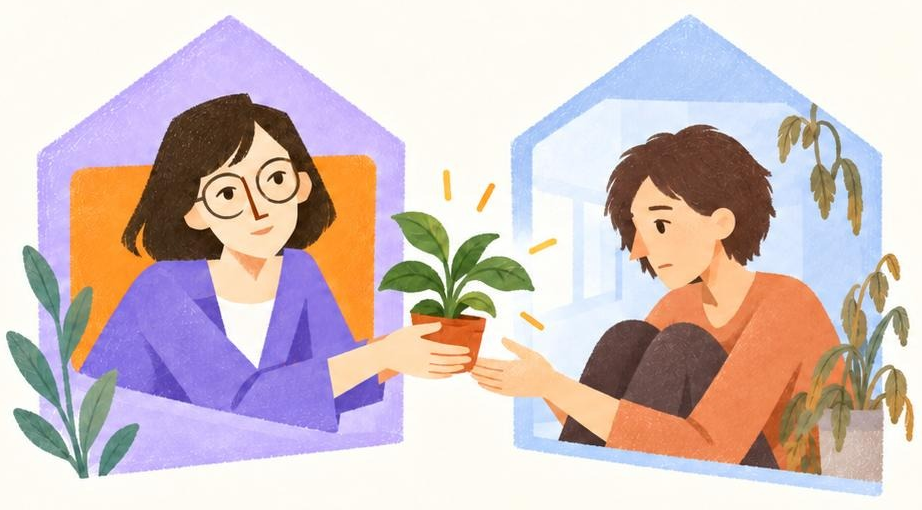
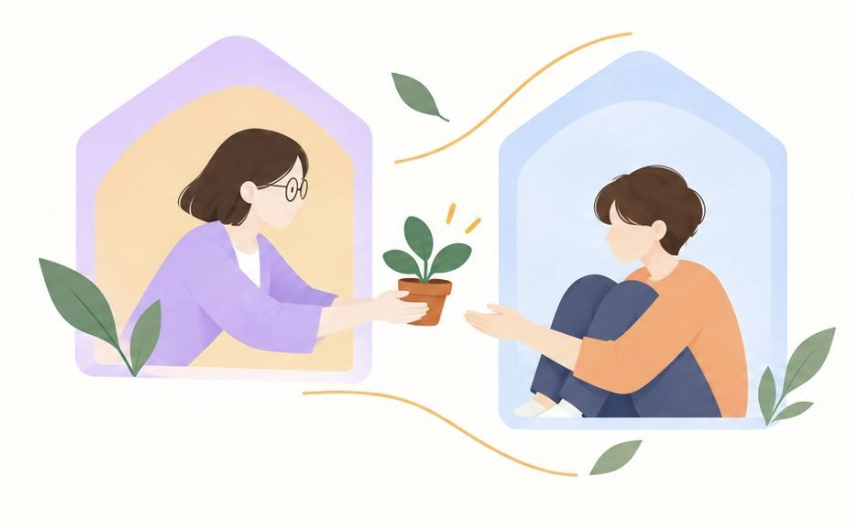
Update home carousel, Figma portrait, and supplied copy

diff --git a/app/page.tsx b/app/page.tsx
@@ -8,6 +8,7 @@ import ScrollReveal from '@/app/components/scroll-reveal'
 import { brandAssets } from '@/config/brand-assets'
 import './styles/figma-home.css'
 import AppIcon from '@/app/components/base/app-icon'
+import HomeCarousel from '@/app/components/home-carousel'
 
 export const metadata: Metadata = {
   title: {
@@ -27,11 +28,6 @@ export const metadata: Metadata = {
 }
 
 /* ── Inline SVG Icons (stroke 1.5, 20×20, no external deps) ── */
-const IconChat = () => (
-  <svg width="20" height="20" viewBox="0 0 24 24" fill="none" stroke="currentColor" strokeWidth="1.5" strokeLinecap="round" strokeLinejoin="round" aria-label="对话">
-    <path d="M21 15a2 2 0 0 1-2 2H7l-4 4V5a2 2 0 0 1 2-2h14a2 2 0 0 1 2 2z" />
-  </svg>
-)
 const IconPhone = () => (
   <svg width="16" height="16" viewBox="0 0 24 24" fill="none" stroke="currentColor" strokeWidth="1.5" strokeLinecap="round" strokeLinejoin="round" aria-label="电话">
     <path d="M22 16.92v3a2 2 0 0 1-2.18 2 19.79 19.79 0 0 1-8.63-3.07 19.5 19.5 0 0 1-6-6 19.79 19.79 0 0 1-3.07-8.67A2 2 0 0 1 4.11 2h3a2 2 0 0 1 2 1.72c.127.96.361 1.903.7 2.81a2 2 0 0 1-.45 2.11L8.09 9.91a16 16 0 0 0 6 6l1.27-1.27a2 2 0 0 1 2.11-.45c.907.339 1.85.573 2.81.7A2 2 0 0 1 22 16.92z" />
@@ -58,10 +54,10 @@ const values = [
 ]
 
 const features = [
-  { num: '01', title: '了解发生什么', image: brandAssets.help.understand, tone: 'peach', desc: '很多伤害没有惊雷。小安帮你分辨哪些行为算暴力、暴力为什么会循环，为什么这不是你的错。', link: '/chat' },
-  { num: '02', title: '让自己更安全', image: brandAssets.help.safety, tone: 'sage', desc: '在你还没决定任何事的时候，就可以先做准备：安全计划、证据怎么留、紧急时去哪里。', link: '/chat' },
-  { num: '03', title: '拿起法律武器', image: brandAssets.help.legal, tone: 'lavender', desc: '有效报警、及时验伤、申请人身安全保护令、寻求进一步法律援助——小安陪你了解每一步可以怎么做。', link: '/chat' },
-  { num: '04', title: '重建个人生活', image: brandAssets.help.rebuild, tone: 'blue', desc: '分开后的骚扰怎么应对、创伤修复需要什么、怎么重新开始——这些也可以和小安聊聊。', link: '/chat' },
+  { num: '01', title: '了解发生什么', image: brandAssets.help.understand, tone: 'peach', desc: '很多伤害没有淤青。小安帮你分辨哪些行为算暴力、暴力为什么会循环，以及为什么这不是你的错。', link: '/chat' },
+  { num: '02', title: '准备安全计划', image: brandAssets.help.safety, tone: 'sage', desc: '有些决定很难立马做出，但你可以先了解：什么是安全计划、证据如何保存、紧急时需要做些什么。', link: '/chat' },
+  { num: '03', title: '寻求法律支持', image: brandAssets.help.legal, tone: 'lavender', desc: '有效报警、及时验伤、申请人身安全保护令、寻求法律援助——小安会告诉你每一步具体怎么办。', link: '/chat' },
+  { num: '04', title: '重塑个人生活', image: brandAssets.help.rebuild, tone: 'blue', desc: '分开后面临骚扰和威胁怎么办、身心创伤如何应对、重新开始可以从哪里开始——这些小安也知道。', link: '/chat' },
 ]
 
 const faqs = [
@@ -140,28 +136,7 @@ const LandingPage: FC = () => {
           <a href="#contact">有话要说</a>
         </nav>
       </header>
-      <section className="home-hero" aria-labelledby="welcome-title">
-        <div className="home-hero-grid">
-          <div className="home-intro">
-            <h1 id="welcome-title">你好，我是<span>小安</span></h1>
-            <p>一个24小时在线<br />倾听你、支持你、帮助你维护权益的AI反家暴志愿者</p>
-            <Link href="/chat" className="home-chat-link">
-              <IconChat /><span>和小安说说话</span><span aria-hidden="true">→</span>
-            </Link>
-          </div>
-          <Image className="home-illustration" src={brandAssets.hero} alt="戴眼镜、穿紫色外套的小安" width={236} height={204} priority />
-        </div>
-        <a href="#about" className="home-scroll">谢谢你的信任，一起来认识小安吧<span aria-hidden="true">⌄</span></a>
-      </section>
-      <section id="about" className="home-conversation" aria-labelledby="conversation-title">
-        <Image className="home-conversation-art" src={brandAssets.conversation} alt="小安向坐在窗边的人递出一盆绿植，陪伴她整理处境" width={922} height={510} />
-        <div className="home-conversation-copy">
-          <h2 id="conversation-title">爱不应该带来伤害，<br />说不清楚的事，<br />跟小安说说</h2>
-          <p>这算不算伤害，接下来怎么办，可以找谁，我们一点点理清。</p>
-          <Link href="/chat" className="home-conversation-link"><span>和小安说说话</span><span className="home-round-arrow" aria-hidden="true">→</span></Link>
-          <a href="#values" className="home-continue">还不想开口？往下看看！</a>
-        </div>
-      </section>
+      <HomeCarousel />
 
       <section id="values" className="home-values" aria-labelledby="values-title">
         <h2 id="values-title">定位说明</h2>

diff --git a/app/components/home-carousel.tsx b/app/components/home-carousel.tsx
@@ -1,0 +1,82 @@
+'use client'
+
+import { useRef, useState } from 'react'
+import Link from 'next/link'
+import Image from 'next/image'
+import { brandAssets } from '@/config/brand-assets'
+
+const slides = [
+  {
+    title: ['你好，我是小安'],
+    description: ['国内首个反家暴AI助手，', '由一线实务工作者与技术人员共创，', '24小时在线，陪你一起让自己更安全。'],
+    image: brandAssets.hero,
+    alt: '戴眼镜、穿紫色外套的小安',
+    hint: '谢谢你的信任，一起来认识小安吧',
+  },
+  {
+    title: ['发生什么事了？', '令你不安的一切，', '都可以和小安说说。'],
+    description: ['如果你曾经经历、正在经历或害怕经历家庭暴力，', '试着和小安聊一聊，我们一起帮助自己更安全。'],
+    image: brandAssets.conversation,
+    alt: '小安向对面的人递出一盆绿植',
+    hint: '还不想开口，往下看看！',
+  },
+]
+
+export default function HomeCarousel() {
+  const viewport = useRef<HTMLDivElement>(null)
+  const [active, setActive] = useState(0)
+  const changeSlide = (index: number) => {
+    const element = viewport.current
+    if (!element)
+    { return }
+    element.scrollTo({
+      left: index * element.clientWidth,
+      behavior: window.matchMedia('(prefers-reduced-motion: reduce)').matches ? 'instant' : 'smooth',
+    })
+  }
+
+  return (
+    <section id="about" className="home-carousel" aria-label="认识小安" aria-roledescription="轮播">
+      <div
+        className="home-carousel-viewport"
+        ref={viewport}
+        tabIndex={0}
+        aria-label="首页介绍，使用左右方向键切换"
+        onScroll={(event) => {
+          const element = event.currentTarget
+          setActive(Math.round(element.scrollLeft / element.clientWidth))
+        }}
+        onKeyDown={(event) => {
+          if (event.key === 'ArrowLeft' || event.key === 'ArrowRight') {
+            event.preventDefault()
+            changeSlide(event.key === 'ArrowLeft' ? 0 : 1)
+          }
+        }}
+      >
+        {slides.map((slide, index) => (
+          <div className={`home-hero home-hero-${index + 1}`} key={slide.image} role="group" aria-roledescription="幻灯片" aria-label={`${index + 1} / 2`} aria-hidden={active !== index}>
+            <div className="home-hero-grid">
+              <div className="home-intro">
+                {index === 0
+                  ? <h1 className="home-hero-title">你好，我是<span>小安</span></h1>
+                  : <h2 className="home-hero-title">{slide.title.map(line => <span className="home-copy-line" key={line}>{line}</span>)}</h2>}
+                <p>{slide.description.map(line => <span className="home-copy-line" key={line}>{line}</span>)}</p>
+                <Link href="/chat" className="home-chat-link" tabIndex={active === index ? 0 : -1}>
+                  <svg width="20" height="20" viewBox="0 0 24 24" fill="none" stroke="currentColor" strokeWidth="1.5" strokeLinecap="round" strokeLinejoin="round" aria-hidden="true"><path d="M21 15a2 2 0 0 1-2 2H7l-4 4V5a2 2 0 0 1 2-2h14a2 2 0 0 1 2 2z" /></svg>
+                  <span>和小安说说话</span><span aria-hidden="true">→</span>
+                </Link>
+              </div>
+              <Image className="home-illustration" src={slide.image} alt={slide.alt} width={index === 0 ? 1214 : 854} height={index === 0 ? 972 : 526} priority={index === 0} />
+            </div>
+            <a href="#values" className="home-scroll" tabIndex={active === index ? 0 : -1}>{slide.hint}<span aria-hidden="true">⌄</span></a>
+          </div>
+        ))}
+      </div>
+      <div className="home-carousel-controls" aria-label="首页切换">
+        <button type="button" onClick={() => changeSlide(0)} aria-label="上一张首页" disabled={active === 0}>←</button>
+        {slides.map((slide, index) => <button type="button" key={slide.image} className="home-carousel-dot" onClick={() => changeSlide(index)} aria-label={`切换至首页${index + 1}`} aria-pressed={active === index}><span /></button>)}
+        <button type="button" onClick={() => changeSlide(1)} aria-label="下一张首页" disabled={active === 1}>→</button>
+      </div>
+    </section>
+  )
+}

diff --git a/app/styles/figma-home.css b/app/styles/figma-home.css
@@ -54,7 +54,11 @@
 }
 
 .home-hero {
-  min-height: calc(100svh - 64px);
+  min-height: calc(100svh - 124px);
+  min-width: 0;
+  flex: 0 0 100%;
+  scroll-snap-align: start;
+  scroll-snap-stop: always;
   display: flex;
   flex-direction: column;
   justify-content: center;
@@ -66,12 +70,12 @@
   max-width: 1060px;
   margin: auto;
   display: grid;
-  grid-template-columns: 1fr 1fr;
-  gap: 72px;
+  grid-template-columns: 1.2fr 1fr;
+  gap: 48px;
   align-items: center;
 }
 
-.home-intro h1 {
+.home-hero-title {
   color: #656363;
   font-size: clamp(32px, 3.7vw, 48px);
   font-weight: 400;
@@ -80,7 +84,7 @@
 }
 
 .home-intro > p {
-  max-width: 390px;
+  max-width: 570px;
   font-size: 20px;
   line-height: 1.9;
   color: #77726e;
@@ -129,7 +133,7 @@
   line-height: 1;
 }
 
-.home-intro h1 span {
+.home-hero-1 .home-hero-title span {
   background: linear-gradient(100deg, #a38abb, #f4b093);
   background-clip: text;
   color: transparent;
@@ -161,7 +165,7 @@
 
   .home-hero {
     padding: 40px 24px 24px;
-    min-height: calc(100svh - 146px);
+    min-height: calc(100svh - 206px);
   }
 
   .home-hero-grid {
@@ -170,7 +174,7 @@
     max-width: 480px;
   }
 
-  .home-intro h1 {
+  .home-hero-title {
     margin-bottom: 20px;
   }
 
@@ -192,69 +196,6 @@
     margin-top: 28px;
     font-size: 12px;
   }
-}
-
-.home-conversation {
-  max-width: 1280px;
-  margin: 0 auto;
-  padding: 100px 32px;
-  min-height: 85svh;
-  display: grid;
-  grid-template-columns: 1.2fr 1fr;
-  gap: 40px;
-  align-items: center;
-}
-
-.home-conversation-art {
-  width: 100%;
-  height: auto;
-}
-
-.home-conversation-copy h2 {
-  font-size: clamp(28px, 3.3vw, 48px);
-  font-weight: 800;
-  line-height: 1.35;
-  color: #30180d;
-  margin-bottom: 24px;
-}
-
-.home-conversation-copy > p {
-  font-size: 17px;
-  line-height: 1.8;
-  color: #645e58;
-}
-
-.home-conversation-link {
-  display: flex;
-  align-items: center;
-  justify-content: space-between;
-  gap: 16px;
-  border: 1px solid #e5ddce;
-  border-radius: 999px;
-  background: #fffefb;
-  padding: 8px 10px 8px 24px;
-  margin-top: 32px;
-  min-height: 64px;
-  color: #716a63;
-}
-
-.home-round-arrow {
-  display: grid;
-  place-items: center;
-  flex-shrink: 0;
-  width: 46px;
-  height: 46px;
-  border-radius: 50%;
-  background: #ffa34e;
-  color: #fff;
-  font-size: 30px;
-}
-
-.home-continue {
-  display: inline-block;
-  padding: 12px 0;
-  margin-top: 12px;
-  color: #746e69;
 }
 
 .home-values,
@@ -333,8 +274,7 @@
   transition: box-shadow 180ms ease;
 }
 
-.home-support-card:hover,
-.home-conversation-link:hover {
+.home-support-card:hover {
   box-shadow: 0 4px 16px #76543518;
 }
 
@@ -448,22 +388,6 @@
 }
 
 @media (width <= 767px) {
-  .home-conversation {
-    grid-template-columns: 1fr;
-    gap: 32px;
-    padding: 64px 24px;
-    min-height: auto;
-  }
-
-  .home-conversation-art {
-    max-width: 560px;
-    justify-self: center;
-  }
-
-  .home-conversation-copy h2 {
-    font-size: clamp(27px, 6vw, 38px);
-  }
-
   .home-values,
   .home-support {
     padding: 48px 24px;
@@ -510,4 +434,57 @@
   .home-support-copy p {
     font-size: 15px;
   }
+}
+
+.home-carousel {
+  background: var(--page-paper);
+}
+.home-carousel-viewport {
+  display: flex;
+  overflow-x: auto;
+  scroll-snap-type: x mandatory;
+  scrollbar-width: none;
+}
+.home-carousel-viewport::-webkit-scrollbar {
+  display: none;
+}
+.home-copy-line {
+  display: block;
+}
+.home-hero-2 .home-illustration {
+  max-width: 560px;
+  mix-blend-mode: multiply;
+}
+.home-carousel-controls {
+  display: flex;
+  align-items: center;
+  justify-content: center;
+  gap: 4px;
+  padding-bottom: 16px;
+}
+.home-carousel-controls button {
+  display: grid;
+  place-items: center;
+  width: 44px;
+  height: 44px;
+  border-radius: 50%;
+  color: #746e69;
+  cursor: pointer;
+}
+.home-carousel-controls button:disabled {
+  opacity: 0.3;
+  cursor: default;
+}
+.home-carousel-dot span {
+  width: 8px;
+  height: 8px;
+  border-radius: 50%;
+  background: #d8ccc3;
+}
+.home-carousel-dot[aria-pressed="true"] span {
+  background: #95684d;
+}
+.home-carousel-viewport:focus-visible {
+  outline: 2px solid #e8a87c;
+  outline-offset: -2px;
 }

diff --git a/public/brand/README.md b/public/brand/README.md
@@ -2,9 +2,9 @@
 
 所有图片路径统一配置在 `config/brand-assets.ts`，替换同名文件即可更新。
 
-- `xiaoan-portrait.png`：用户提供的图2，首页主图与全站小安头像共用，头像使用 `cover` 居中显示。
-- `support-conversation.png`：图3左侧插画，用于首页第二屏，文字和聊天入口单独实现。
+- `xiaoan-portrait.png`：Figma 的首页图层 `image 46`（节点 `105:63`）导出的高清透明 PNG（1214×972），首页主图与全站小安头像共用，头像使用 `cover` 居中显示。
+- `support-conversation.png`：用户最新提供的完整插画（854×526），用于首页第二屏，文字和聊天入口单独实现。
 - `value-safety.png`、`value-trust.png`、`value-privacy.png`：图4定位说明的三张插画。
 - `help-understand.png`、`help-safety.png`、`help-legal.png`、`help-rebuild.png`：图4四张支持卡片的插画。
 
-插画从用户提供的参考图片裁切，原始分辨率保留。页面文字使用 HTML，支持链接与移动端重排。图2原图为 236×204，放大显示的清晰度受原图限制。
+插画从用户提供的参考图片裁切，原始分辨率保留。页面文字使用 HTML，支持链接与移动端重排。首页与头像原图来源：Figma 文件 `rCHimJFqCjG9i3uTAvGYaQ`；第二屏通过 `mix-blend-mode: multiply` 与首页背景融合。
